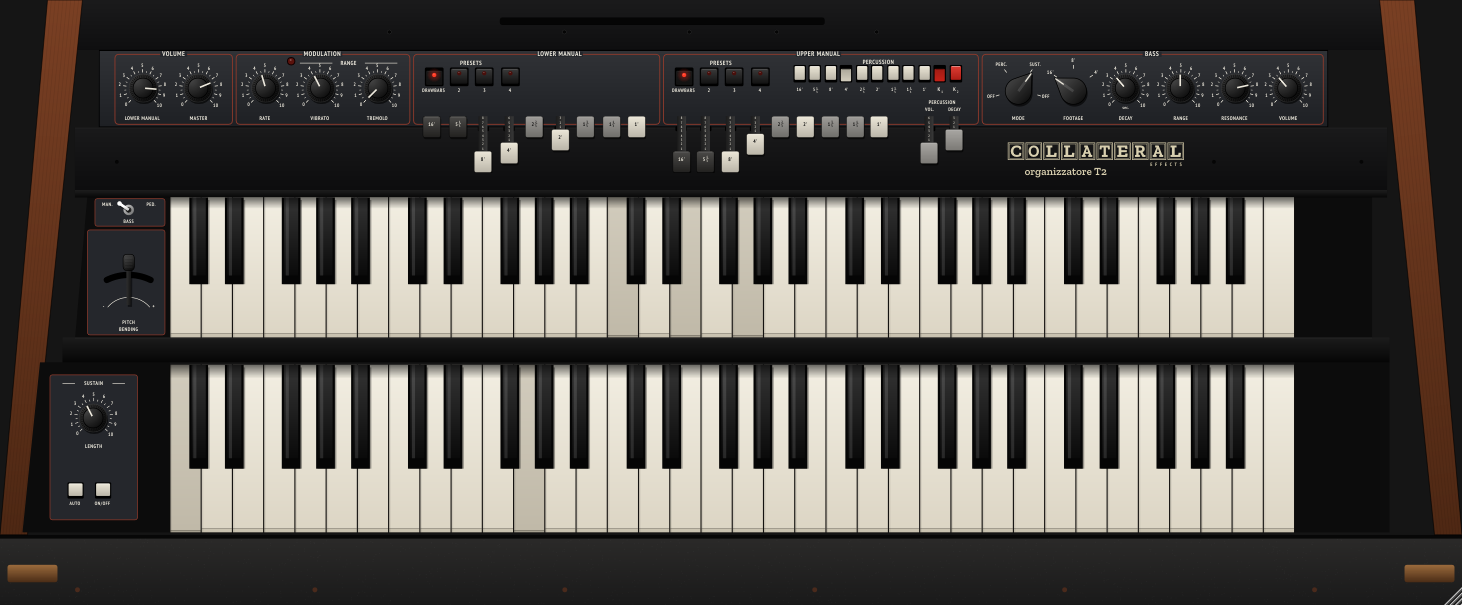
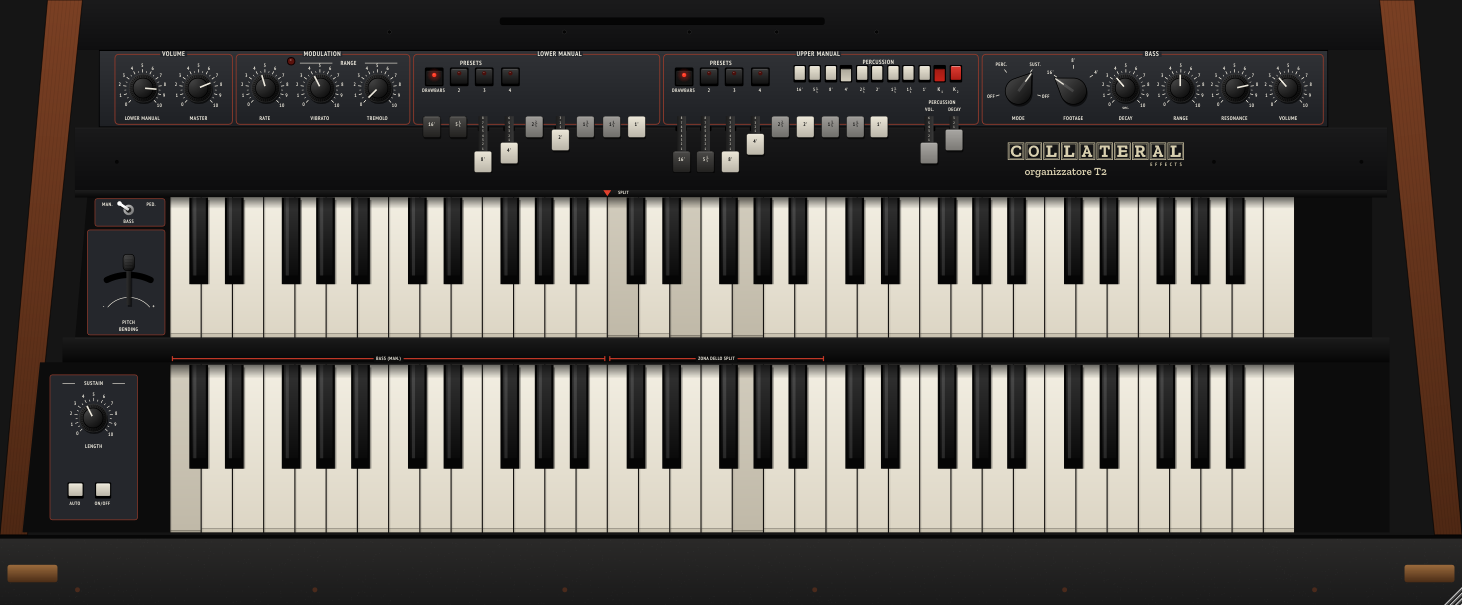
Split a tre zone (bassi | inferiore | superiore), zone segnate sulle tastiere, volume del manuale inferiore logaritmico
Claude-Session: https://claude.ai/code/session_01Vmw6kKFQb1dNiNRwB1rNYc

Changed region(s): [[0.1231, 0.5653, 0.554, 0.8926]]

diff --git a/src/PluginEditor.cpp b/src/PluginEditor.cpp
@@ -841,6 +841,42 @@ float Panel::ky() const { return 71.0f; }
 
 void Panel::paintOverChildren (Graphics& g)
 {
+    // dove vanno le note della tastiera MIDI: punto di split e zona dei bassi (levetta su MAN.)
+    {
+        auto keyX = [] (const Manual& m, int k)
+        {
+            const float kw = (float) m.getWidth() / 36.0f;
+            static const float wo[12] = { 0, 0.62f, 1, 1.76f, 2, 3, 3.58f, 4, 4.68f, 5, 5.80f, 6 };
+            return (float) m.getX() + ((float) (k / 12) * 7.0f + wo[k % 12]) * kw;
+        };
+        const Colour mark (0xffe0402c);
+        auto bracket = [&] (const Manual& m, int k0, int k1, const String& label)
+        {
+            const float x0 = keyX (m, k0) + 2.0f, x1 = keyX (m, k1) - 2.0f, y = (float) m.getY() - 5.0f;
+            g.setColour (mark.withAlpha (0.85f));
+            g.drawLine (x0, y, x1, y, 1.0f);
+            g.drawLine (x0, y - 2.0f, x0, y + 2.0f, 1.0f);
+            g.drawLine (x1, y - 2.0f, x1, y + 2.0f, 1.0f);
+            const float w = GlyphArrangement::getStringWidth (Fonts::get().label (4.4f * 1.12f), label) + 4.0f;
+            g.setColour (Colour (0xff0c0c0c));
+            g.fillRect (Rectangle<float> ((x0 + x1) * 0.5f - w * 0.5f, y - 3.0f, w, 6.0f));
+            g.setColour (kPrint);
+            text (g, label, { (x0 + x1) * 0.5f, y }, 4.4f);
+        };
+        if (zoneKey >= 0 && zoneKey <= 60)
+        {
+            // manuale superiore: dove comincia la sua zona sulla tastiera MIDI
+            const float x = keyX (upper, zoneKey), y = (float) upper.getY() - 1.0f;
+            Path tri; tri.addTriangle (x - 3.2f, y - 4.8f, x + 3.2f, y - 4.8f, x, y);
+            g.setColour (mark); g.fillPath (tri);
+            g.setColour (kPrint);
+            text (g, "SPLIT", { x + 13.0f, y - 3.0f }, 4.2f);
+            // manuale inferiore: tasti raggiunti dalla zona centrale della tastiera MIDI
+            const int width = jmax (0, zoneKey + 36 - zoneBassSplit);
+            if (width > 0) bracket (lower, 24, jmin (61, 24 + width), "ZONA DELLO SPLIT");
+        }
+        if (zoneBass) bracket (lower, 0, 24, "BASS (MAN.)");
+    }
     // LED della modulazione (lampeggia con la quadra del trigger di Schmitt)
     const auto c = ledArea.getCentre();
     const float r = 2.6f;
@@ -861,6 +897,13 @@ void Panel::timerCallback()
     const bool l = proc.lfoLed();
     const bool mo = proc.apvts.getRawParameterValue (pid::modOn)->load() > 0.5f;
     if (l != led || mo != modOn) { led = l; modOn = mo; repaint (ledArea.expanded (6.0f).toNearestInt()); }
+    {
+        const bool split = proc.apvts.getRawParameterValue (pid::midiMode)->load() > 0.5f;
+        const int zk = split ? (int) proc.apvts.getRawParameterValue (pid::split)->load() - 36 : -1;
+        const bool zb = proc.apvts.getRawParameterValue (pid::bassPedal)->load() < 0.5f;
+        const int bs = jmin ((int) proc.apvts.getRawParameterValue (pid::bassSplit)->load(), zk + 36);
+        if (zk != zoneKey || zb != zoneBass || bs != zoneBassSplit) { zoneKey = zk; zoneBass = zb; zoneBassSplit = bs; repaint(); }
+    }
     upper.refresh();
     lower.refresh();
     if (lever != nullptr)
@@ -925,11 +968,16 @@ void Panel::showSettingsMenu()
 
     PopupMenu mm;
     mm.addItem (100, "Per canale: 1 = superiore, 2 = inferiore, 3 = pedaliera", true, ! splitMode);
-    mm.addItem (101, "Split su un canale (sotto lo split il manuale inferiore)", true, splitMode);
+    mm.addItem (101, "Split su un canale: bassi | manuale inferiore | superiore", true, splitMode);
     PopupMenu sm;
     const char* names[] = { "Do", "Do#", "Re", "Re#", "Mi", "Fa", "Fa#", "Sol", "Sol#", "La", "La#", "Si" };
     for (int n : { 48, 53, 55, 60, 65, 67, 72 })
         sm.addItem (200 + n, String (names[n % 12]) + String (n / 12 - 1) + " (nota " + String (n) + ")", true, sp == n);
+    const int bsp = (int) proc.apvts.getRawParameterValue (pid::bassSplit)->load();
+    PopupMenu bm;
+    bm.addItem (736, "Nessuna zona dei bassi", true, bsp <= 36);
+    for (int n : { 41, 43, 48, 53, 55 })
+        bm.addItem (700 + n, "Sotto " + String (names[n % 12]) + String (n / 12 - 1) + " (nota " + String (n) + ")", true, bsp == n);
     PopupMenu tm;
     for (int c : { -50, -25, -10, 0, 10, 25, 50 })
         tm.addItem (400 + c + 100, (c > 0 ? "+" : "") + String (c) + " cent", true, std::abs (tn - (float) c) < 0.5f);
@@ -943,7 +991,8 @@ void Panel::showSettingsMenu()
     PopupMenu m;
     m.addSectionHeader ("Organizzatore T2  -  Collateral Effects");
     m.addSubMenu ("Tastiera MIDI", mm);
-    m.addSubMenu ("Punto di split", sm, splitMode);
+    m.addSubMenu ("Punto di split (manuale superiore da qui in su)", sm, splitMode);
+    m.addSubMenu ("Zona dei bassi (all'estremo sinistro)", bm, splitMode);
     m.addSubMenu ("Fader della KeyLab", fm);
     m.addSubMenu ("Pitch (accordatura generale)", tm);
     m.addSubMenu ("Qualita audio", qm);
@@ -955,6 +1004,11 @@ void Panel::showSettingsMenu()
         if (r == 100) mode->setValueNotifyingHost (0.0f);
         else if (r == 101) mode->setValueNotifyingHost (1.0f);
         else if (r >= 200 && r < 300) split->setValueNotifyingHost (split->convertTo0to1 ((float) (r - 200)));
+        else if (r >= 700 && r < 800)
+        {
+            auto* bsplit = proc.apvts.getParameter (pid::bassSplit);
+            bsplit->setValueNotifyingHost (bsplit->convertTo0to1 ((float) (r - 700)));
+        }
         else if (r >= 400 && r < 500) tune->setValueNotifyingHost (tune->convertTo0to1 ((float) (r - 500)));
         else if (r == 500 || r == 501) proc.resetDefaultMapping (r == 501);
         else if (r == 600) quality->setValueNotifyingHost (0.0f);

diff --git a/tests/proc_test.cpp b/tests/proc_test.cpp
@@ -1,0 +1,68 @@
+// Prova del processore come lo usa una tastiera MIDI singola (canale 1): instradamento e comandi dei bassi.
+#include "PluginProcessor.h"
+
+struct Result { float db, centroid; };
+
+static Result render (OrgProcessor& p, std::initializer_list<int> notes, double seconds = 1.0)
+{
+    juce::AudioBuffer<float> buf (2, 512);
+    juce::MidiBuffer midi;
+    for (int n : notes) midi.addEvent (juce::MidiMessage::noteOn (1, n, (juce::uint8) 100), 0);
+    std::vector<float> y;
+    for (int b = 0; b < (int) (seconds * 48000 / 512); ++b)
+    {
+        buf.clear(); p.processBlock (buf, midi); midi.clear();
+        y.insert (y.end(), buf.getReadPointer (0), buf.getReadPointer (0) + 512);
+    }
+    for (int n : notes) midi.addEvent (juce::MidiMessage::noteOff (1, n), 0);
+    for (int b = 0; b < 600; ++b) { buf.clear(); p.processBlock (buf, midi); midi.clear(); }   // code esaurite
+    // livello e "brillantezza" (centroide spettrale grezzo: rapporto derivata/segnale)
+    double s = 0, d = 0;
+    for (size_t i = 4800; i < y.size(); ++i) { s += (double) y[i] * y[i]; const double dv = y[i] - y[i - 1]; d += dv * dv; }
+    const double c = std::sqrt (d / (s + 1e-30)) * 48000.0 / (2.0 * M_PI);
+    return { (float) (10.0 * std::log10 (s / (double) (y.size() - 4800) + 1e-20)), (float) c };
+}
+
+int main()
+{
+    juce::ScopedJuceInitialiser_GUI init;
+    OrgProcessor p;
+    p.setPlayConfigDetails (0, 2, 48000.0, 512);
+    p.prepareToPlay (48000.0, 512);
+    auto set = [&] (const char* id, float v) { auto* q = p.apvts.getParameter (id); q->setValueNotifyingHost (q->convertTo0to1 (v)); };
+    auto reset = [&] (const char* id) { auto* q = p.apvts.getParameter (id); q->setValueNotifyingHost (q->getDefaultValue()); };
+
+    std::printf ("modo MIDI = %.0f (1 = split), split = %.0f\n", p.apvts.getRawParameterValue ("midi_route")->load(),
+                 p.apvts.getRawParameterValue ("split")->load());
+    auto r0 = render (p, { 36 });
+    std::printf ("Do2 (36) sul canale 1, levetta MAN: %.1f dB, centroide %.0f Hz\n", r0.db, r0.centroid);
+    struct T { const char* id; float a, b; };
+    for (int mode : { 2, 1 })
+    {
+        set ("bass_mode", (float) mode);
+        std::printf ("MODE %s\n", mode == 1 ? "PERC." : "SUST.");
+        for (auto t : { T { "bass_decay", 0.0f, 1.0f }, T { "bass_range", 0.0f, 1.0f }, T { "bass_res", 0.0f, 1.0f },
+                        T { "bass_volume", 0.1f, 1.0f }, T { "bass_foot", 0.0f, 2.0f } })
+        {
+            set (t.id, t.a); const auto a = render (p, { 36 });
+            set (t.id, t.b); const auto b = render (p, { 36 });
+            reset (t.id);
+            std::printf ("  %-12s %.0f -> %.0f :  %6.1f dB / %5.0f Hz  ->  %6.1f dB / %5.0f Hz\n", t.id, t.a, t.b, a.db, a.centroid, b.db, b.centroid);
+        }
+    }
+    reset ("bass_mode");
+    // zone dello split con una KeyLab 49 (note 36…84): bassi 36–47, manuale inferiore 48–59, superiore 60–84
+    auto shown = [&] (int m) { std::string s; for (int k = 0; k < 61; ++k) if (p.keyIsDown (m, k)) s += std::to_string (k) + " "; return s; };
+    juce::AudioBuffer<float> buf (2, 512); juce::MidiBuffer midi;
+    for (int n : { 36, 50, 55, 64 }) midi.addEvent (juce::MidiMessage::noteOn (1, n, (juce::uint8) 100), 0);
+    p.processBlock (buf, midi); midi.clear();
+    std::printf ("note 36 50 55 64 -> tasti sup.: [%s] inf.: [%s]\n", shown (0).c_str(), shown (1).c_str());
+    for (int n : { 36, 50, 55, 64 }) midi.addEvent (juce::MidiMessage::noteOff (1, n), 0);
+    p.processBlock (buf, midi); midi.clear();
+    std::printf ("dopo i note-off -> sup.: [%s] inf.: [%s]\n", shown (0).c_str(), shown (1).c_str());
+    set ("bass_volume", 0.0f);
+    const auto lm = render (p, { 52 });
+    const auto um = render (p, { 72 });
+    std::printf ("Mi3 (52) zona del manuale inferiore: %.1f dB;  Do5 (72) manuale superiore: %.1f dB\n", lm.db, um.db);
+    return 0;
+}

diff --git a/src/PluginProcessor.cpp b/src/PluginProcessor.cpp
@@ -131,37 +131,46 @@ void OrgProcessor::readParams()
 }
 
 // Canali: 1 (e ogni altro) = manuale superiore, 2 = inferiore, 3 = pedaliera.
-// Split: sotto il punto di split il manuale inferiore, sopra il superiore (canale 3 sempre pedaliera).
+// Split (una sola tastiera, tre zone):
+//   dallo split in su            → manuale superiore (Do2 = primo tasto)
+//   dallo split dei bassi allo split → manuale inferiore, a partire dal suo Do4 (tasto 24): le due ottave più
+//                                      basse del manuale inferiore, sull'originale, sono quelle dei bassi
+//   sotto lo split dei bassi     → bassi: prime ottave del manuale inferiore (MAN.) o pedaliera (PED.)
+// Il canale 3 resta sempre la pedaliera.
 void OrgProcessor::routeNote (int channel, int note, bool on)
 {
     const int ch = juce::jlimit (1, 16, channel) - 1;
-    int target;
+    auto fold = [] (int k, int n) { while (k < 0) k += 12; while (k >= n) k -= 12; return k; };
+    int target, key;
     if (on)
     {
-        if (ch == 2) target = 2;
-        else if ((int) rawv (pid::midiMode) == 1) target = note < (int) rawv (pid::split) ? 1 : 0;
-        else target = ch == 1 ? 1 : 0;
-        noteTarget[ch][(size_t) note] = target;
+        if (ch == 2) { target = 2; key = fold (note - 36, t2::kPedals); }
+        else if ((int) rawv (pid::midiMode) == 1)
+        {
+            const int sp = (int) rawv (pid::split);
+            const int bs = juce::jmin ((int) rawv (pid::bassSplit), sp);
+            if (note >= sp)      { target = 0; key = fold (note - 36, t2::kKeys); }
+            else if (note >= bs) { target = 1; key = fold (note - bs + 24, t2::kKeys); }
+            else if (rawv (pid::bassPedal) > 0.5f) { target = 2; key = fold (note - 36, t2::kPedals); }
+            else                 { target = 1; key = fold (note - 36, t2::kBassKeys); }
+        }
+        else { target = ch == 1 ? 1 : 0; key = fold (note - 36, t2::kKeys); }
+        noteTarget[ch][(size_t) note] = target * 128 + key;
     }
     else
     {
-        target = noteTarget[ch][(size_t) note];
+        const int packed = noteTarget[ch][(size_t) note];
         noteTarget[ch][(size_t) note] = -1;
-        if (target < 0) return;
+        if (packed < 0) return;
+        target = packed / 128; key = packed % 128;
     }
     if (target == 2)
     {
-        int k = note - 36;
-        while (k < 0) k += 12;
-        while (k >= t2::kPedals) k -= 12;
-        pedalCount[(size_t) k] = juce::jmax (0, pedalCount[(size_t) k] + (on ? 1 : -1));
-        if (pedalCount[(size_t) k] > 0) engine.pedalOn (k); else engine.pedalOff (k);
+        pedalCount[(size_t) key] = juce::jmax (0, pedalCount[(size_t) key] + (on ? 1 : -1));
+        if (pedalCount[(size_t) key] > 0) engine.pedalOn (key); else engine.pedalOff (key);
         return;
     }
-    int k = note - 36;                       // Do2 = primo tasto
-    while (k < 0) k += 12;
-    while (k >= t2::kKeys) k -= 12;
-    midiCount[target][(size_t) k] = juce::jmax (0, midiCount[target][(size_t) k] + (on ? 1 : -1));
+    midiCount[target][(size_t) key] = juce::jmax (0, midiCount[target][(size_t) key] + (on ? 1 : -1));
 }
 
 void OrgProcessor::syncKeys()

diff --git a/src/Params.h b/src/Params.h
@@ -31,8 +31,9 @@ inline constexpr const char* susAuto    = "sus_auto";
 inline constexpr const char* susLength  = "sus_length";
 inline constexpr const char* expression = "expression";
 inline constexpr const char* tune       = "tune";
-inline constexpr const char* midiMode   = "midi_mode";
+inline constexpr const char* midiMode   = "midi_route";   // (ex midi_mode: nuovo ID perché le sessioni salvate ripartano in split)
 inline constexpr const char* split      = "split";
+inline constexpr const char* bassSplit  = "bass_split";
 inline constexpr const char* quality    = "quality";
 }
 
@@ -99,6 +100,7 @@ inline juce::AudioProcessorValueTreeState::ParameterLayout createLayout()
     p.push_back (std::make_unique<AudioParameterFloat> (ParameterID { pid::tune, v }, "Pitch (accordatura, cent)", NormalisableRange<float> (-100.0f, 100.0f), 0.0f));
     choice (pid::midiMode, "Tastiera MIDI", { "Canali (1 sup., 2 inf., 3 pedaliera)", "Split su un canale" }, 1);
     p.push_back (std::make_unique<AudioParameterInt> (ParameterID { pid::split, v }, "Punto di split", 37, 95, 60));
+    p.push_back (std::make_unique<AudioParameterInt> (ParameterID { pid::bassSplit, v }, "Split dei bassi", 36, 95, 48));
     choice (pid::quality, "Qualita", { "Normale", "Alta (sovracampionamento)" }, 0);
     return { p.begin(), p.end() };
 }

diff --git a/src/dsp/T2Engine.h b/src/dsp/T2Engine.h
@@ -411,7 +411,7 @@ private:
         bendSm += (p.bend - bendSm) * (1.0 - std::exp (-dt / 0.004));
         lfoStep = 4.0 * lfoHz() / fs;
         tuneRatio = std::pow (2.0, p.tuneCents / 1200.0) * (1.0 + 0.1225 * bendSm);
-        lmGain = loadedPot (p.lmVolume, 100e3, 2747.0);
+        lmGain = audioTaper (p.lmVolume);   // LOWER MANUAL: 100 kΩ logaritmico
         bassGain = 0.47 * loadedPot (p.bassVolume, 100e3, 100e3);
         outGain = audioTaper (p.master) * std::clamp ((double) p.expression, 0.0, 1.0) * kOutScale;
     }

diff --git a/src/PluginProcessor.h b/src/PluginProcessor.h
@@ -75,7 +75,7 @@ private:
     std::array<std::atomic<bool>, t2::kKeys> guiHeld[2];
     std::array<std::atomic<bool>, t2::kKeys> shownDown[2];
     std::array<bool, t2::kKeys> engineDown[2] {};
-    std::array<int, 128> noteTarget[16];   // dove è finita ogni nota (per il note-off): 0 sup., 1 inf., 2 pedale, −1
+    std::array<int, 128> noteTarget[16];   // dove è finita ogni nota (per il note-off): destinazione·128 + tasto, −1
     std::atomic<float> wheel { 0.0f };
     bool sustainPedal = false;
 

diff --git a/src/PluginEditor.h b/src/PluginEditor.h
@@ -178,6 +178,7 @@ private:
     Manual upper, lower;
     juce::Rectangle<float> logoArea, stickerArea, ledArea;
     bool led = false, modOn = true;
+    int zoneKey = -2, zoneBassSplit = -2; bool zoneBass = true;   // segni dello split e della zona dei bassi sulle tastiere
     juce::String learnId;
 };
 } // namespace org::ui

diff --git a/README.md b/README.md
@@ -36,11 +36,13 @@ Crumar Organizer T2 seguendo il manuale d'uso, il manuale di servizio T1-T2 e gl
 
 ## Uso con la tastiera MIDI (Arturia KeyLab)
 
-- **Split** (predefinito, una sola tastiera): sotto il Do4 (nota 60) il manuale inferiore, dal Do4 in su il superiore.
-  Do2 (nota 36) è il primo tasto di ogni manuale. Con i bassi su **MAN.** le prime due ottave del manuale inferiore
-  (Do2–Si3) suonano solo il basso, come sull'originale: con lo split al Do4 la mano sinistra suona quindi il basso.
-  Per suonare accordi sul manuale inferiore porta la levetta su **PED.** (il basso passa alla pedaliera, canale 3)
-  oppure sposta lo split più in alto dal menu del logo.
+- **Split** (predefinito, una sola tastiera come la KeyLab 49), tre zone segnate in rosso sulle tastiere a schermo:
+  - sotto il **Do3** (nota 48): **bassi** (con la levetta su MAN. suonano le prime due ottave del manuale inferiore,
+    su PED. la pedaliera);
+  - dal **Do3** al **Si3**: **manuale inferiore**, dal suo Do4 in su (sull'originale le due ottave più basse del
+    manuale inferiore sono quelle dei bassi, quindi gli accordi si suonano da lì in su);
+  - dal **Do4** (nota 60) in su: **manuale superiore**.
+  I due punti si spostano dal menu del logo (*Punto di split*, *Zona dei bassi*).
 - **Canali** (dal menu del logo): 1 = manuale superiore, 2 = inferiore, 3 = pedaliera. Le note fuori estensione
   sono riportate d'ottava.
 - Assegnazioni predefinite (modalità User della KeyLab): i 9 **fader** sui drawbar (CC 73 75 79 72 80 81 82 83 85,
